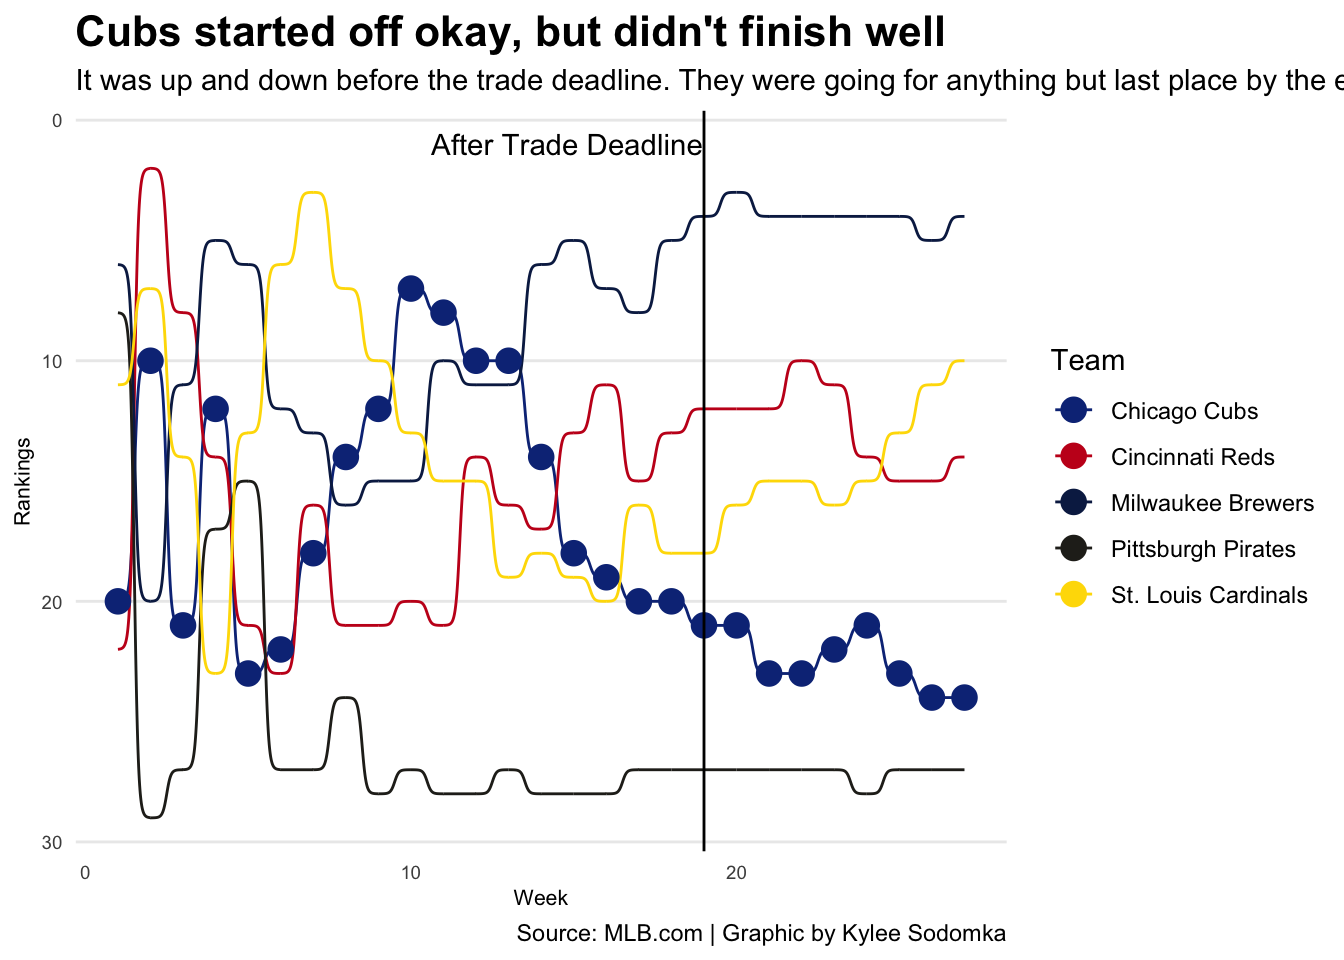
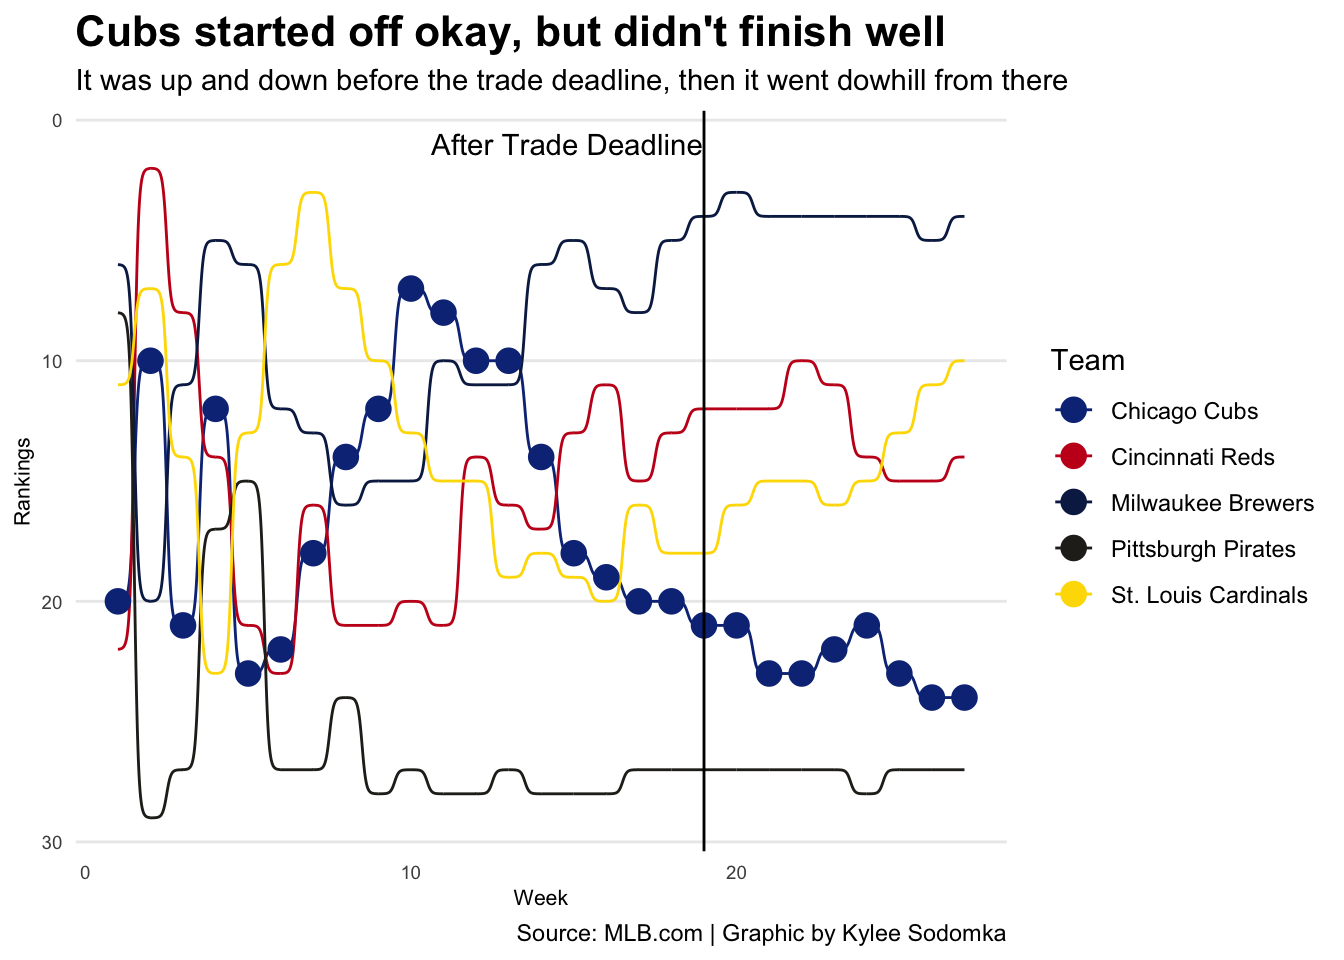
for the new post

Changed region(s): [[0.5, 0.0625, 1.0, 0.0938]]

diff --git a/2021/12/03/did-the-trade-deadline-doom-the-chicago-cubs/index.html b/2021/12/03/did-the-trade-deadline-doom-the-chicago-cubs/index.html
@@ -104,7 +104,7 @@ cubs &lt;- nlcentral %&gt;%
   scale_y_reverse() + 
   labs(
     title=&quot;Cubs started off okay, but didn&#39;t finish well&quot;,
-    subtitle=&quot;It was up and down before the trade deadline. They were going for anything but last place by the end.&quot;,
+    subtitle=&quot;It was up and down before the trade deadline, then it went dowhill from there&quot;,
     caption=&quot;Source: MLB.com | Graphic by Kylee Sodomka&quot;, 
     x=&quot;Week&quot;,
     y=&quot;Rankings&quot;
@@ -207,7 +207,7 @@ WC &lt;- rbis %&gt;%
   geom_bar(data=KB, aes(x=reorder(Player, RBIs), weight=RBIs), fill=&quot;#0E3386&quot;) +
   geom_bar(data=AR, aes(x=reorder(Player, RBIs), weight=RBIs), fill=&quot;#0E3386&quot;) +
 labs(
-    title=&quot;The OG&#39;s were productive; the New Core proved to be too&quot;,
+    title=&quot;Same story for both cores when it comes to RBIs&quot;,
     subtitle=&quot;The numbers are not far off between the two groups. Again, look at Schwindel...&quot;,
     caption=&quot; &quot;, 
     x=&quot; &quot;,
